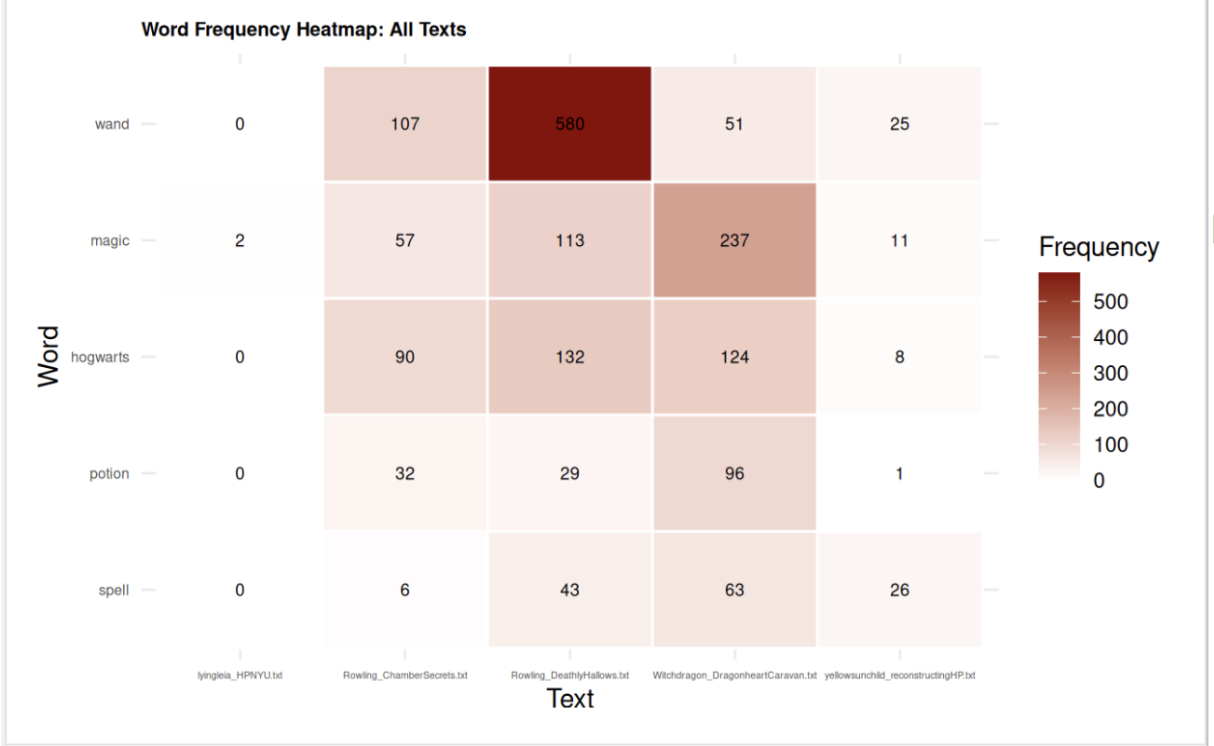
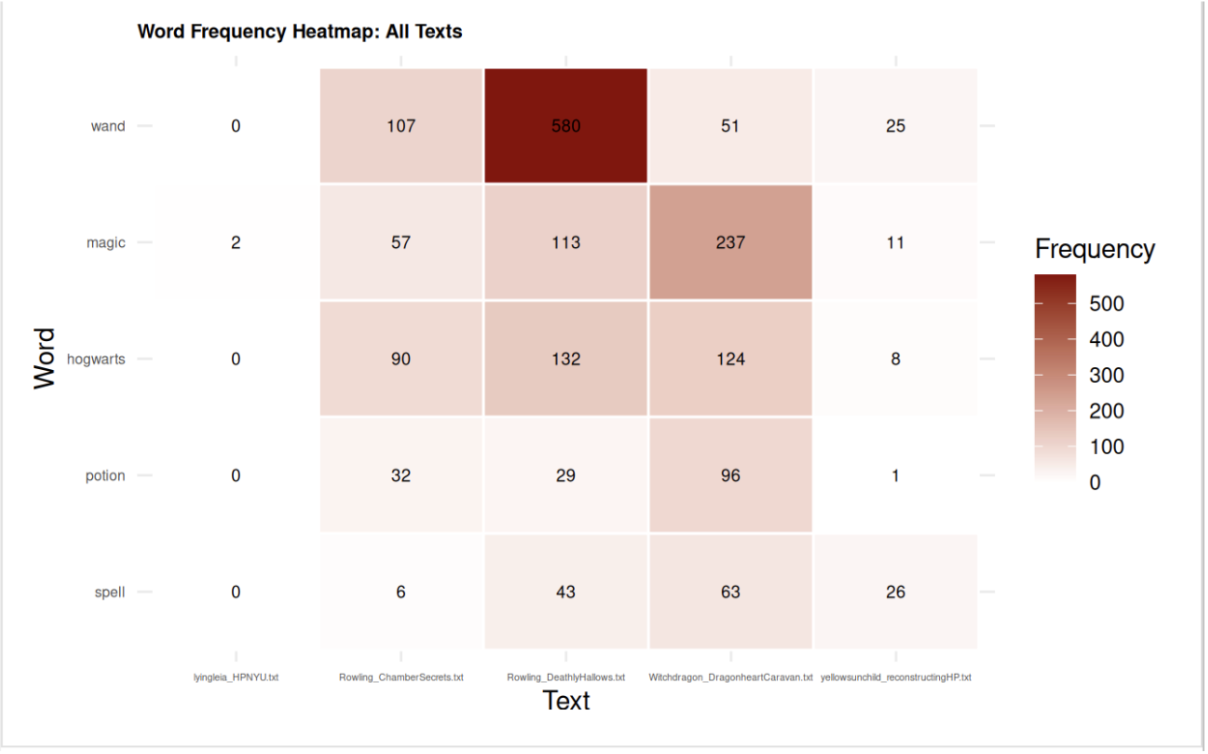
AA

diff --git a/_posts/2026-03-15-response1.md b/_posts/2026-03-15-response1.md
@@ -14,7 +14,7 @@ Response 1: Recognizing the Relation between Data and Context
 
 In my initial analysis of the Harry Potter corpus, my partner and I created visualizations to track the "magical infrastructure" across J.K. Rowling’s original novels and several popular fanfictions. 
 
-![Heatmap](/rlac/assets/images/figure8.png)
+![Heatmap](/rlac/assets/images/fig8.png)
 Figure 1. Word Frequency Heatmap from Assignment 1
 
 Looking at the Word Frequency Heatmap (Figure 3), a clear pattern appeared: while Rowling’s Deathly Hallows is saturated with terms like "wand" and "hogwarts," fanfictions like the Lyingleia_NYU text are almost entirely silent. My immediate hypothesis was that this text was a non-magical story, fundamentally detached from the original corpus. This initial, intuitive reaction is exactly where we can actually go wrong with making conclusions based on first impressions.
@@ -22,9 +22,12 @@ Looking at the Word Frequency Heatmap (Figure 3), a clear pattern appeared: whil
 Step 1: The AI’s Reasoning Error
 To test the "literacy" of LLM interpreters, I provided my heatmap to an LLM without giving it any source context. 
 
-Figure 2.0 LLM Response on Image of Heat Cloud no Context
+![LLM R1](/rlac/assets/images/fig9.png)
+Figure 2 LLM Response on Image of Heat Cloud (No context given)
 
-Figure 3.0 LLM Response on Image of Heat Cloud based on asking Can you explain what you understand and get from this screenshot ?
+
+![LLM R2](/rlac/assets/images/fig10.png)
+Figure 3 LLM Response on Image of Heat Cloud based on asking Can you explain what you understand and get from this screenshot ?
 
 The result, seen in the First LLM Screenshot of Key Insights, was logical but ultimately not interily correct.
 The AI correctly identified the visual "void" but filled in the gaps with the wrong guess. It suggested that the Lyingleia_NYU text was "nearly silent" and might be "very short" or an "academic/analytical piece." This is a classic example of what Maxim Lisnic (2023) describes as a reasoning error. Because the visual lacked contextual "safeguards," the LLM committed an error by over-simplifying the data and inferring that an absence of magical keywords meant an absence of narrative altogether. As Lisnic argues, a human guide makes graph data more meaningful and helps us draw conclusions from it. 
@@ -32,11 +35,13 @@ The AI correctly identified the visual "void" but filled in the gaps with the wr
 Step 2: Correcting the Big Pattern with the Small Details
 Next, I next provided the LLM with a second visual: 
 
-Figure 4 (The Word Cloud of Fanfictions). From Assignment 1
+![LLM R3](/rlac/assets/images/fig11.png)
+Figure 4 (The Word Cloud of Fanfictions) From Assignment 1
 
 Nexr, I asked it, “Now look at this word cloud. Does this change your earlier guess that the NYU text is 'academic' or 'short'? How do you explain the high frequency of these social words compared to the zero wands/spells we saw in the heatmap?" 
 
-Figure 5. LLM response on Figure 4 (The Word Cloud of Fanfictions).
+![LLM R4](/rlac/assets/images/fig12.png)
+Figure 5. LLM response on Figure 4 (The Word Cloud of Fanfictions)
 
 
 By seeing words like "dorm," "text," and "kiss" alongside character names like "Harry" and "Draco," the LLM pivoted. 
@@ -46,7 +51,8 @@ It recognized that the zeros weren't a data error, but a deliberate narrative ch
 Finally, I pushed the LLM with a final interrogation. I asked it to look closer at the text, prompting it with, “Does this mean the story isn't fully without magic? Or  a story where magic exists in the background? How does this change your view of the 'zeros' in the Heatmap?”
 
 
-Figure 6. LLM response to follow up question based on Figure 4 (The Word Cloud of Fanfictions).
+![LLM R5](/rlac/assets/images/fig13.png)
+Figure 6. LLM response to follow up question based on Figure 4 (The Word Cloud of Fanfictions)
  
 The Final LLM Response provided the most interesting analysis of this process. The AI admitted that its "No-Magic" interpretation was too simple. It realized that the "zeros" in the heatmap were not truly zero; they were evidence of "relative scarcity." Magic was present, but so normalized in the story that it was just part of the characters' identities, not the plot engine. As a researcher, this taught me that visualizations can act as maps that highlight the "war" (the 580 wands), but hide the subtle background (the 2 mentions of magic). The zeros were a choice, not an omission.
 
